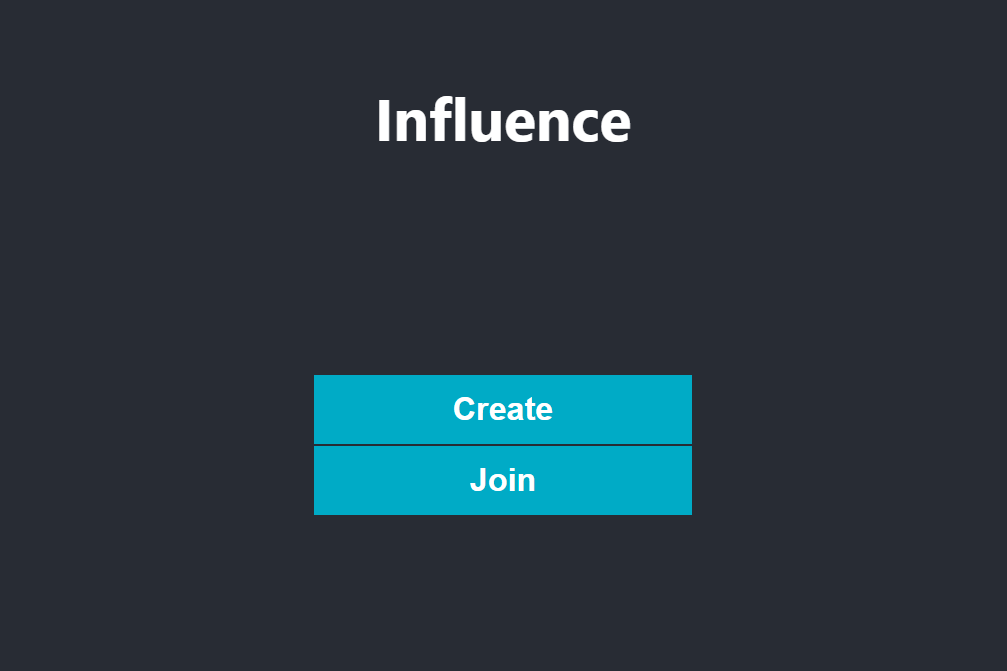
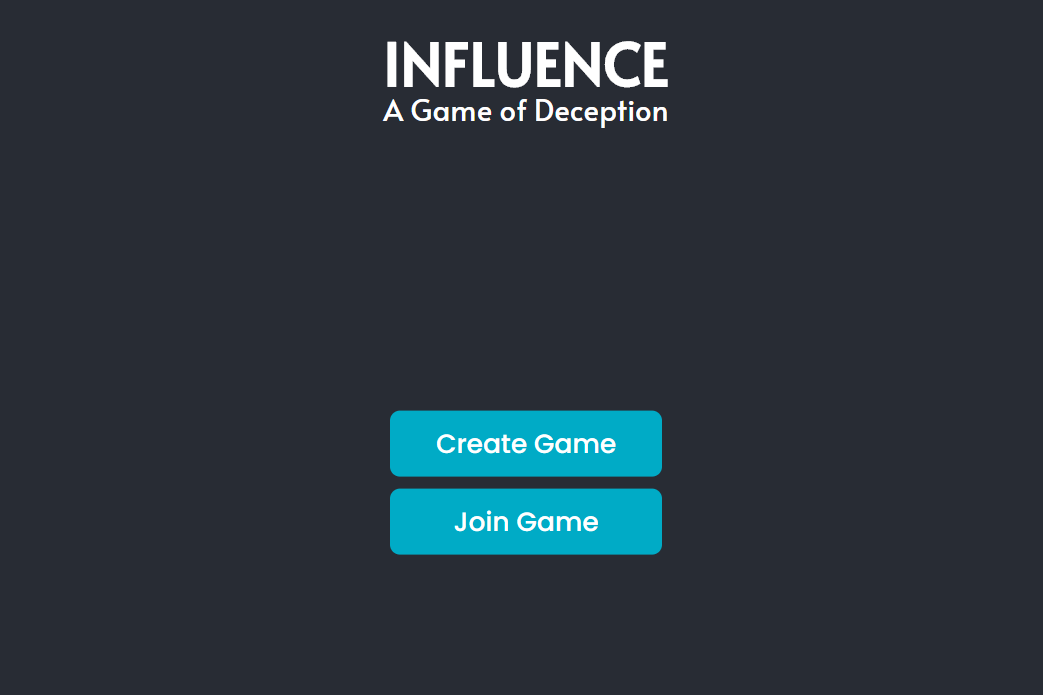
Added links, skills, updated influence picture

Changed region(s): [[0.3078, 0.5365, 0.708, 0.8048], [0.3694, 0.0596, 0.6465, 0.2086]]

diff --git a/cv.html b/cv.html
@@ -38,10 +38,9 @@
             <div class="container">
                 <div class="avatar" style="background-image: url(&quot;assets/img/8EEC8DAD-7563-4515-9E5B-3A26A7A12A7B.jpg&quot;);background-size: 130%;background-position: center;"></div>
                 <div class="about-me">
-                    <p>Hi! I'm Abhay Deshpande. I'm a developer with experience in Java, Python, C#, and a bit of C++. I have a passion to learn more by solving interesting problems.<br></p><a class="btn btn-outline-primary" role="button" href="projects.html">See my recent work</a>
+                    <p>Hi! I'm Abhay Deshpande. I'm a developer with experience in several languages. I've worked with robots, webapps, desktop applications, embedded systems, and more. I have a passion to learn more by solving interesting problems.<br></p>
                     <a
-                        class="btn btn-outline-primary" role="button" href="#contact-info">Get in touch</a>
-                </div>
+                        class="btn btn-outline-primary" role="button" href="projects.html">See my recent work</a><a class="btn btn-outline-primary" role="button" href="#contact-info">Get in touch</a></div>
             </div>
         </section>
         <section class="portfolio-block cv">
@@ -53,19 +52,36 @@
                     <div class="item">
                         <div class="row">
                             <div class="col-6">
+                                <h3>Developer</h3>
+                                <a href="https://devpost.com/software/hack20-webapp">
+                                    <h4 class="organization">DawgMaps</h4>
+                                </a>
+                            </div>
+                            <div class="col-md-6"><span class="period">08/2020</span></div>
+                        </div>
+                        <p class="text-muted">Submission for <a href="https://hack-20.devpost.com/">Hack'20</a> hackathon, collaborated with 4 other UW freshman<br>Won best project in category, as well as the Google Cloud COVID-19 fund<br>Developed
+                            2 products, a web-app powered by ReactJS, and an Android application<br><a href="https://devpost.com/software/hack20-webapp">Submission page</a><br><a href="https://dawgmaps.online/">Project website</a><br></p>
+                    </div>
+                    <div class="item">
+                        <div class="row">
+                            <div class="col-6">
                                 <h3>Robot Code Developer</h3>
-                                <h4 class="organization">Titan Robotics Club</h4>
+                                <a href="http://www.titanrobotics.com/">
+                                    <h4 class="organization">Titan Robotics Club</h4>
+                                </a>
                             </div>
                             <div class="col-md-6"><span class="period">01/2017 - 05/2020</span></div>
                         </div>
-                        <p class="text-muted">As programming head, coordinated team of developers to create robot software in Java<br>Developed multiple autonomous routines and techniques that won awards in 2018 and 2019<br>Created vision
-                            targeting systems with OpenCV</p>
+                        <p class="text-muted">As programming head, coordinated team of developers to create robot software in Java<br>Developed multiple autonomous routines and techniques that won awards in 2018 and 2019<br>Added new features
+                            to team library, including motion profiling and pure pursuit algorithms<br>Created vision targeting systems with OpenCV</p>
                     </div>
                     <div class="item">
                         <div class="row">
                             <div class="col-md-6">
                                 <h3>Technology Coach</h3>
-                                <h4 class="organization">Interactive Math Academy</h4>
+                                <a href="https://www.imathacademy.com/">
+                                    <h4 class="organization">Interactive Math Academy</h4>
+                                </a>
                             </div>
                             <div class="col-md-6"><span class="period">07/2018 - 09/2018</span></div>
                         </div>
@@ -84,7 +100,7 @@
                             </div>
                             <div class="col-6"><span class="period">09/2020 - 06/2024</span></div>
                         </div>
-                        <p class="text-muted">Looking to join robotics clubs</p>
+                        <p class="text-muted">Taking coursework in CS, math, social justice, and english.</p>
                     </div>
                     <div class="item">
                         <div class="row">
@@ -94,7 +110,8 @@
                             </div>
                             <div class="col-md-6"><span class="period">09/2016 - 06/2020</span></div>
                         </div>
-                        <p>4.0 GPA<br>Programming head of FRC robotics club<br>Under-Secretary General of Internal Affairs of Model UN club<br>National AP Scholar<br>National Merit Finalist</p>
+                        <p>4.0 GPA<br>Programming head of <a href="http://www.titanrobotics.com/">FRC 492</a>&nbsp;robotics club<br>Under-Secretary General of Internal Affairs of Model UN club<br>National
+                            AP Scholar<br>National Merit Finalist</p>
                     </div>
                 </div>
                 <div class="group">
@@ -104,15 +121,23 @@
                                 <h2>Skills</h2>
                                 <h3>Java</h3>
                                 <div class="progress">
-                                    <div class="progress-bar" aria-valuenow="90" aria-valuemin="0" aria-valuemax="100" style="width: 90%;"><span class="sr-only">90%</span></div>
+                                    <div class="progress-bar" aria-valuenow="95" aria-valuemin="0" aria-valuemax="100" style="width: 95%;"><span class="sr-only">95%</span></div>
                                 </div>
                                 <h3>Python</h3>
+                                <div class="progress">
+                                    <div class="progress-bar" aria-valuenow="60" aria-valuemin="0" aria-valuemax="100" style="width: 60%;"><span class="sr-only">60%</span></div>
+                                </div>
+                                <h3>JavaScript</h3>
                                 <div class="progress">
                                     <div class="progress-bar" aria-valuenow="55" aria-valuemin="0" aria-valuemax="100" style="width: 55%;"><span class="sr-only">55%</span></div>
                                 </div>
                                 <h3>C#</h3>
                                 <div class="progress">
-                                    <div class="progress-bar" aria-valuenow="55" aria-valuemin="0" aria-valuemax="100" style="width: 55%;"><span class="sr-only">55%</span></div>
+                                    <div class="progress-bar" aria-valuenow="45" aria-valuemin="0" aria-valuemax="100" style="width: 45%;"><span class="sr-only">45%</span></div>
+                                </div>
+                                <h3>C++</h3>
+                                <div class="progress">
+                                    <div class="progress-bar" aria-valuenow="30" aria-valuemin="0" aria-valuemax="100" style="width: 30%;"><span class="sr-only">30%</span></div>
                                 </div>
                             </div>
                         </div>

diff --git a/index.html b/index.html
@@ -38,10 +38,9 @@
             <div class="container">
                 <div class="avatar" style="background-image: url(&quot;assets/img/8EEC8DAD-7563-4515-9E5B-3A26A7A12A7B.jpg&quot;);background-position: center;background-size: 130%;"></div>
                 <div class="about-me">
-                    <p>Hi! I'm Abhay Deshpande. I'm a developer with experience in Java, Python, C#, and a bit of C++. I have a passion to learn more by solving interesting problems.<br></p><a class="btn btn-outline-primary" role="button" href="projects.html">See my recent work</a>
+                    <p>Hi! I'm Abhay Deshpande. I'm a developer with experience in several languages. I've worked with robots, webapps, desktop applications, embedded systems, and more. I have a passion to learn more by solving interesting problems.<br></p>
                     <a
-                        class="btn btn-outline-primary" role="button" href="cv.html#contact-info">Get in touch</a>
-                </div>
+                        class="btn btn-outline-primary" role="button" href="projects.html">See my recent work</a><a class="btn btn-outline-primary" role="button" href="cv.html#contact-info">Get in touch</a></div>
             </div>
         </section>
         <section class="portfolio-block skills">
@@ -55,7 +54,7 @@
                             <div class="card-header bg-transparent border-0"><i class="icon ion-code"></i></div>
                             <div class="card-body">
                                 <h3 class="card-title">Programming</h3>
-                                <p class="card-text">Years of experience in Java, as well as a bit in Python and C#, and I'm teaching myself C++.</p>
+                                <p class="card-text">Years of experience in Java, as well as a bit in Python, JS, and C#, and I'm teaching myself C++.</p>
                             </div>
                         </div>
                     </div>

diff --git a/projects.html b/projects.html
@@ -76,7 +76,7 @@
                         <div class="card border-0"><a href="https://github.com/abhaybd/Influence"><img class="card-img-top scale-on-hover" src="assets/img/Influence.png" alt="Card Image"></a>
                             <div class="card-body">
                                 <h6><a href="#">Influence - Clone of Coup</a></h6>
-                                <p class="text-muted card-text">Created an online clone of the board game Coup. Backend written in Java on a Tomcat server, and the frontend is written in JavaScript with React. Hosted on AWS Elastic Beanstalk.</p>
+                                <p class="text-muted card-text">Created an online clone of the board game Coup. Backend written in Java on a Tomcat server, and the frontend is written in JavaScript with React.<br><a href="http://www.influencegame.xyz/">Link to game website</a></p>
                             </div>
                         </div>
                     </div>
